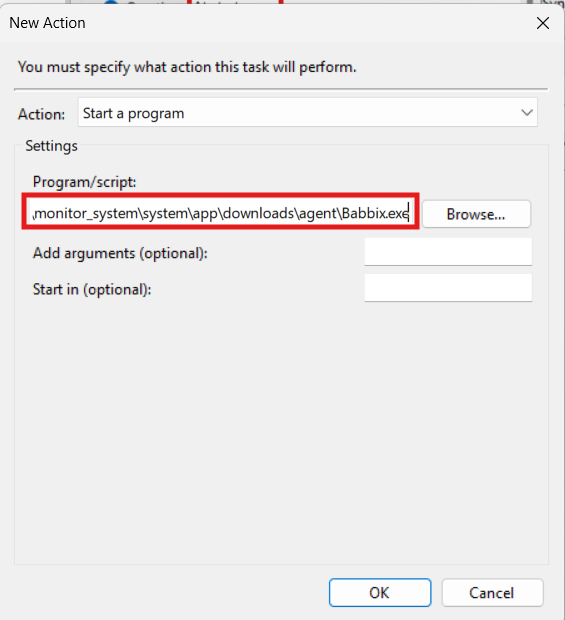
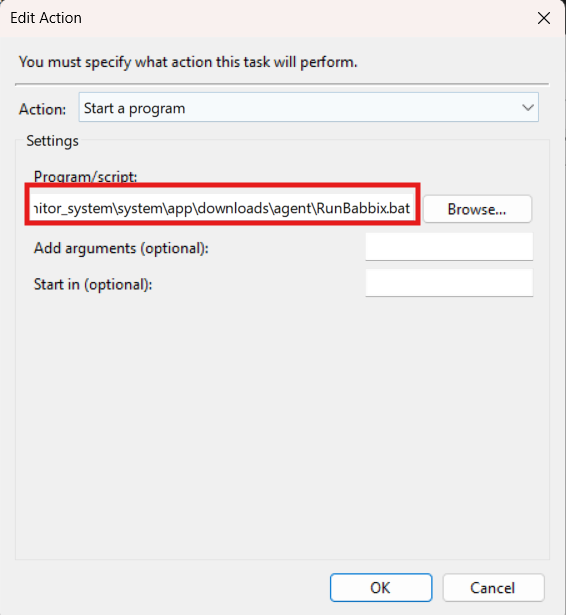
update

diff --git a/README.md b/README.md
@@ -78,7 +78,7 @@ Bước 3: Đặt tên cho Task và tick chọn ```Run with highest privileges``
 
 ![](images/13.png)
 
-Bước 4: Tạo 2 triggers ```At on log``` với ```At startup```
+Bước 4: Tạo 2 triggers ```At log on``` với ```At startup```
 
 ![](images/14.png)
 
@@ -90,6 +90,8 @@ Bước 5: Tạo action
 
 ![](images/17.png)
 
-Đưa đường dẫn đến file exe của agent
+Đưa đường dẫn đến file .bat của thư mục agent vừa tải
 
 ![](images/18.png)
+
+Bước 6: Nhấn Ok và thoát ra, giờ thì File sẽ chạy cùng với máy tính khi bật máy lên.
